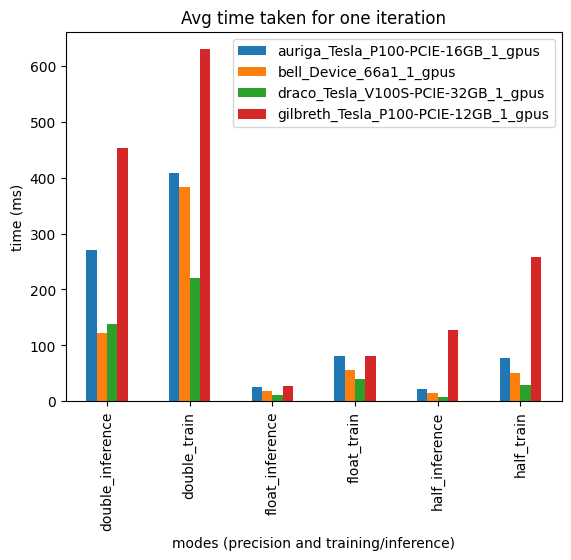
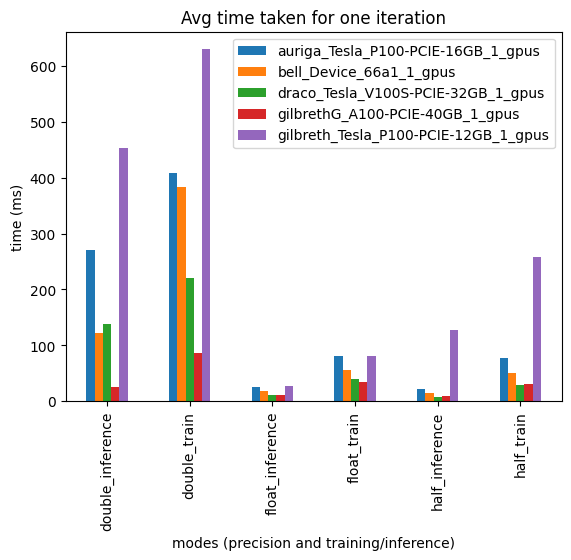
gilbreth G sub cluster by Zihan

diff --git a/plot_json.py b/plot_json.py
@@ -23,4 +23,4 @@ plot = data.plot(kind="bar", title = "Avg time taken for one iteration")
 plot.set_ylabel("time (ms)")
 plot.set_xlabel("modes (precision and training/inference)")
 fig = plot.get_figure()
-fig.savefig(f"time_taken_vs_experiment_modes for different GPUs.png", bbox_inches='tight')
+fig.savefig(f"with_bell_G_time_taken_vs_experiment_modes for different GPUs.png", bbox_inches='tight')

diff --git a/README.md b/README.md
@@ -16,6 +16,8 @@ Half precision: 16 bits
 - `plot_json.py` for plots corresponding to different servers as well as averaging over different deep models.
 - `*_results` folder contains the CSV files corresponding to each precision and mode. Also, it contains more information about the GPUs. (cores, model)
     - [Gilbreth info](https://github.com/Dipeshtamboli/GPU-Benchmarking/blob/master/gilbreth_results/system_info.txt)
+    - [Gilbreth-G sub-cluster info](https://github.com/Dipeshtamboli/GPU-Benchmarking/blob/master/gilbrethG_results/system_info.txt)
+
     - [Bell info](https://github.com/Dipeshtamboli/GPU-Benchmarking/blob/master/bell_results/system_info.txt)
 
     - [Draco info](https://github.com/Dipeshtamboli/GPU-Benchmarking/blob/master/draco_results/system_info.txt)
